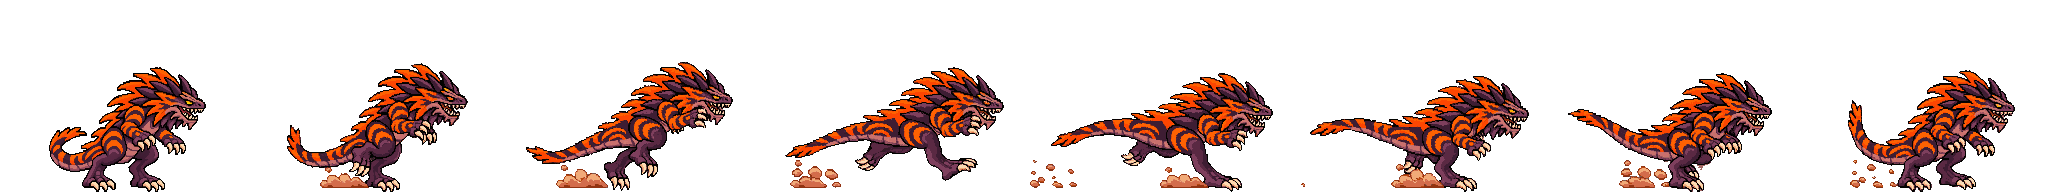
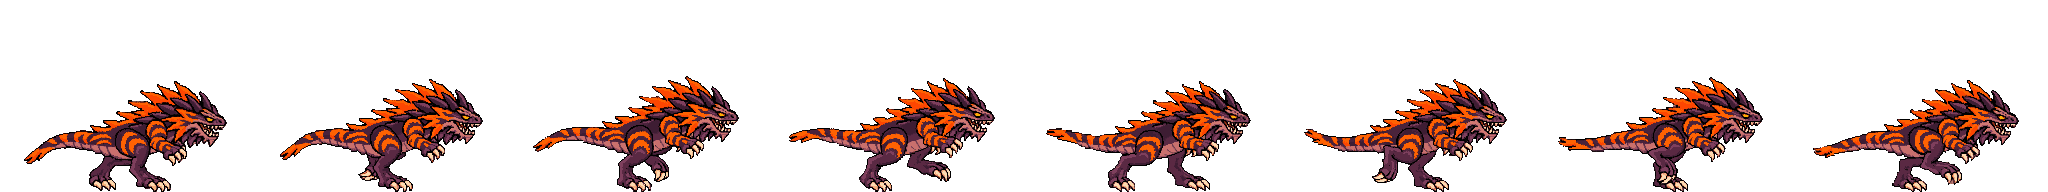
Redo Tlézcatl Stage 2 run as a theropod run
The old loop closed on the upright base pose, so every cycle tipped into
the run and popped back upright, an uneven 27px torso swing that read as a
limp. The new loop is generated from and closed on a level mid-stride pose
from a T. rex-run generation: body horizontal, tail straight back, two
even strides with the same 5px dip on each footfall.

Claude-Session: https://claude.ai/code/session_01SJ9dCvQvS4UYpniCxp2KN3

Changed region(s): [[0.0, 0.3125, 1.0, 1.0]]

diff --git a/src/presentation.ts b/src/presentation.ts
@@ -99,8 +99,8 @@ const TLEZCATL_S2:Form={width:120,borrow:true,anims:{idle:{src:'assets/tlezcatl-
  carry:{src:'assets/tlezcatl-s2-carry.png',frames:4,fps:6,...TZ2_NATIVE,hold:[[120,72],[123,73],[127,75],[124,74]]},
  carryWalk:{src:'assets/tlezcatl-s2-carry-walk.png',frames:8,fps:10,...TZ2_NATIVE,hold:[[120,72],[120,70],[120,69],[120,70],[120,72],[120,71],[120,69],[120,70]]},
  throw:{src:'assets/tlezcatl-s2-throw.png',frames:8,fps:18,once:true,...TZ2_NATIVE},
- // Run (Shift / double-tap): a leaning biped sprint loop closed on the base, long strides with both feet off the street on frame 3,
- // tail straight out behind, dust off the feet.
+ // Run (Shift / double-tap): a theropod (T. rex) run loop closed on a level running pose rather than the upright base, so the body stays
+ // horizontal, head forward and tail straight back as a counterweight; two even strides per cycle with the same 5px dip on each footfall.
  run:{src:'assets/tlezcatl-s2-run.png',frames:8,fps:15,...TZ2_NATIVE},
  // Magma Dive (256x256, the padded base): dive tips forward into a vertical head-first plunge, claws reaching down and tail straight up
  // (frames 0,2,3,4 of a generation, bottom-aligned, held on the last); slamLand = frames 1-8 of a generation from that plunge to the

diff --git a/README.md b/README.md
@@ -68,7 +68,7 @@ Score is earned points minus actual HP damage penalty, including healed damage. 
 
 **Tlézcatl Stage 1 art (just started, the base form):** `tlezcatl-s1.png` is the low-slung volcanic salamander (dark purple hide, lava-orange stripes, flame-spine crest, yellow eye), keyed from the transparent render with `tools/key_render.py` (grid 11.165x10.725 px per art pixel) to a 128x59 sprite at x=64, feet on the bottom row of a 256x192 frame (`TZ1_NATIVE`: scale 128/256, anchor 128). `tlezcatl-s1-idle` (breathing loop, 8 fps) and `tlezcatl-s1-walk` (sprawling lizard crawl, 10 fps) are 8-frame PixelLab strips generated from the base with it as the last frame so they loop. PixelLab dulled the eye to orange, so `fix_eye.py --ref tlezcatl-s1.png --region 157,161,175,182 --radius 10` restores it (the default colour test also matches the orange spines, hence the tight box), then `fill_pinholes.py` and `remove_specks.py`; walk frame 2 was bottom-aligned (1px). `tlezcatl-s1-run` (Shift / double-tap, 15 fps) is an 8-frame bounding sprint generated from the base with it as the last frame (seed 0; seed 7 was only a stretched walk), body low and long with a lift on frame 4 and dust kicked back; eye restored with the same `fix_eye.py` call, then `fill_pinholes.py` and `remove_specks.py`. Width 120 like the others, which makes him about 55 units tall at Stage 1, lower than Kaiban, since he is built long and flat. The light combo (`TZ1_LEFT`: the base shifted 40px left to x=24, anchor 88, so the lunges stay in the frame; 8-frame strips at Stage 1's 24/21/20 fps, each ending on that shifted base): `tlezcatl-s1-light1` is a near-claw rake that reaches past the snout with an orange slash arc on frame 3 (seed 21; the default seed lifted the paw over the back and swept the arc behind him); `tlezcatl-s1-light2` is a snapping lunge bite, head and shoulders shooting forward low with the jaws gaping; `tlezcatl-s1-light3` is a scorpion tail whip, the tail curling up over the back and cracking down in front of the snout with a small spark on frame 4 (seed 7; the default seed's impact explosion was half his body length). Eyes restored with `fix_eye.py --ref` (the shifted base) `--region 157,161,135,142 --radius 14 --max-err 9000`; the bite's reared, gaping frames 1-4 fail the match, so their dulled orange eye blobs were recoloured to the base's yellow by row instead. Then `fill_pinholes.py` and `remove_specks.py` (MAX 12, the bite's spatter and the whip's trailing dust). The heavy (also `TZ1_LEFT`, Stage 1 timing) is cut from one 16-frame rear-and-slam generation from the shifted base, closed on it (seed 7; seed 0 flared the crest off the top of the frame): `tlezcatl-s1-heavy-rear` (frames 0-4: draws back and rears up onto the hind legs and tail, claws raised, 20 fps) and `tlezcatl-s1-heavy-slam` (frames 8-15: crashes chest and claws into the street in a lava burst, dust trails off, settles into the crouch, 16 fps; it starts on the crash, so the hit shows the moment K is released). `tlezcatl-s1-heavy-hold` is a 4-frame loop generated from the peak pose (seed 7) in which the crest glows and then bursts into real flame; played as frames 0,2,3,2 so it pulses instead of snapping back (10 fps). PixelLab dulled the eye again and the reared head defeats `fix_eye.py`'s matcher, so the orange eye blobs on rear 1-4, every hold frame and slam 3-6 were recoloured to the base's yellow by row (slam 7 matched the base normally). Then `fill_pinholes.py` and `remove_specks.py` (MAX 12; MAX 4 on the hold so the flame licks survive). Flame Jet strips (`TZ1_LEFT`): PixelLab painted fire into the wind-up even when told not to, so `tlezcatl-s1-jet-start` (5 frames, 22 fps) is frames 0 and 2 of an inhale-and-gape generation (seed 0, the inhale), two in-betweens from a 4-frame generation bridging its frame 2 to its fire-free last frame (seed 3, prompted without any fire words), and that last frame, the jaws-wide breath pose. `tlezcatl-s1-jet-aim` (5 frames, never played) is that pose aimed -20/0/10/22/35 degrees: frame 8 of a head-lowering sweep from it (the head barely dips; a steeper re-roll closed the jaws), the pose itself, and frames 1-3 of a head-raising sweep (seed 3); `mouth` points are the front of the red mouth interior per frame. `tlezcatl-s1-jet-end` (4 frames, 16 fps) is a generation from the breath pose to the shifted base (jaws snap shut, settles). Eyes recoloured by blob (small orange islands ringed by outline) on every frame, then `fill_pinholes.py` and `remove_specks.py` (MAX 12). The crouch (`TZ1_NATIVE`, the unshifted base; Stage 1 timing): `tlezcatl-s1-crouch-down` (5 frames, seed 0: splays the legs and presses belly and chin flat to the street with the crest laid back, 59px tall to 37px, about the 38-unit crouch hitbox, 22 fps), `tlezcatl-s1-crouch` (a 4-frame breathing loop lying flat, frames 1-4 of a generation from that pose with it as the end pose, since its last frame closes on the first, 6 fps) and `tlezcatl-s1-crouch-up` (crouch-down reversed). Eyes recoloured by blob (frame 1 also has a crest marking that passes the blob test, left alone), then `fill_pinholes.py` and `remove_specks.py` (MAX 12). The climb set (256x256, `TZ1_NATIVE`, generated from the base padded to 256 tall with the feet on the bottom row) clings like a gecko: body vertical, belly to the wall, head up, tail hanging, with the gripping claws on the wall line at frame x=154 (the 24-unit hitbox edge at this scale). PixelLab drew no wall for any of them. `tlezcatl-s1-climb-grab` is frames 0-3 and 8 of an 8-frame leap onto the wall (seed 7; seed 0 snapped straight from the crouch to the cling), every frame bottom-aligned with the claws easing 46px onto the wall line; `tlezcatl-s1-climb` (seed 7) is a hand-over-hand loop closed on the cling pose; `tlezcatl-s1-climb-punch` draws the upper claw back and slams it into the wall with a flash on impact frame 5 (seed 3; the first roll twisted round and struck away from the wall, so the prompt pins the strike to the right); `tlezcatl-s1-climb-mantle` hauls onto the roof, landing upright and dropping onto all fours, ending on the base pose, bottom-aligned with the shift starting 15px further back (the game's 0.3-body-width roof slide) and easing to 0. The cling, climb and punch frames are shifted 46px left and 75px down (tail tip on the bottom row). Eyes recoloured by blob; where no blob was found, from the neighbouring frames' head position and checked by eye (the punch's frames 5-6 needed a looser colour test for a darker orange). Then `fill_pinholes.py` and `remove_specks.py` (MAX 12; MAX 4 on the punch so its sparks survive). Frame counts, fps and impact match the other forms. Grab/carry/throw (`TZ1_NATIVE`, Stage 1 timing, all generated without any object): `tlezcatl-s1-grab` (9 frames, seed 7; seed 0 barely scooped) dips the snout and slides both front claws under the prop at the street, then rears up onto the hind legs and tail with both claws pressed overhead, head thrown back; `tlezcatl-s1-carry` (4-frame loop from the grab's last frame, closed on it) strains upright with the claws locked up; `tlezcatl-s1-carry-walk` (8-frame loop, closed the same way) waddles forward upright; `tlezcatl-s1-throw` (8 of 9 generated frames, the near-duplicate frame 1 dropped so the swing arcs land on frame 1 as the prop launches on the key press) whips both claws forward and down and drops back onto all fours, ending on the base pose. `hold` points: grab frames 0-3 keep the prop on the street in front of the claws, frame 4 lifts it at the front claws, then they sit midway between the two raised claws on the claw tips. Eyes recoloured by blob on grab 1-4 and throw 4-8 (the upright frames show no eye), carry, carry-walk and throw bottom-aligned (1-3px), then `fill_pinholes.py` and `remove_specks.py` (MAX 12; MAX 4 on the throw so the arcs survive). Stage 1 is the base form; Stage 2 has its own form (below) and Stage 3 still draws Stage 1. The Mexico City rival is still the geometric stand-in. `tlezcatl-s1-dive` (4 frames: frames 0-3 of a 9-frame generation, tipping nose-down from the base into a vertical head-first plunge, bottom-aligned, held on the last) and `tlezcatl-s1-slam-land` (frames 1-8 of a generation from that plunge on the street with the base as the last frame: the snout drives in with a lava burst both sides, belly-flop, push back up) are `TZ1_NATIVE`; pinholes filled.
 
-**Tlézcatl Stage 2 art (complete, registered as `stages[2]`):** `tlezcatl-s2.png` is the semi-upright form (reared onto bent hind legs, clawed arms held forward, curled tail, the flame crest swept up into a mane), keyed from the transparent render with `tools/key_render.py` (grid 7.990x7.975 px per art pixel) to a 157x125 sprite at x=49, feet on the bottom row of a 256x192 frame (`TZ2_NATIVE`: scale 157/256, anchor 127.5). `tlezcatl-s2-idle` (breathing loop, 8 fps; seed 7, prompted to keep the crest's size and shape since seed 0 grew it 15px and snapped back at the loop) and `tlezcatl-s2-walk` (stomping biped walk, the tail swinging out straight behind and curling back by the last frame, 10 fps) are 8-frame PixelLab strips generated from the base with it as the last frame so they loop. Eye restored with `fix_eye.py --ref tlezcatl-s2.png --region 97,108,182,196 --radius 10`, then `fill_pinholes.py` and `remove_specks.py` (MAX 12). Width 120 like the other Stage 2 forms (about 95 units tall). The light combo (`TZ2_LEFT`: the base shifted 40px left to x=9, anchor 87.5, so the reaching rakes and the lunge stay in the frame; 8-frame strips at the shared 24/21/20 fps, each ending on that shifted base): `tlezcatl-s2-light1` is an overhead claw rake, the near claw cocked up by the crest and raked down in front of the snout with a thin orange streak on frame 4 (seed 7; seed 0's slash arc wrapped round behind his back); `tlezcatl-s2-light2` is a reaching hook rake, the arm shooting out past the snout and hooking down with a crescent on frame 3 (seed 21; seed 0 threw an arc bigger than the frame and turned him to face the camera, seed 7 was close but read as a repeat of light1); `tlezcatl-s2-light3` is a lunging bite, head and shoulders driving forward low with the jaws gaping, the crest flaring yellow-white on the snap at frame 3 and shedding embers (seed 0). Eyes restored with `fix_eye.py --ref` (the shifted base) `--region 97,108,142,156 --radius 14 --max-err 9000`; the bite's lunging frames 1, 2, 5 and 6 fail the match, so their dulled orange eye blobs were recoloured to the base's yellows by hand-located box (frames 3-4 kept the yellow). Then `fill_pinholes.py` and `remove_specks.py` (MAX 12, which also clears most of the bite's embers); a 54px see-through hole in the bite's frame 2 belly, too thick for `fill_pinholes.py`, was filled from the surrounding pixels. The heavy (also `TZ2_LEFT`, shared heavy timing) is a two-claw overhead smash cut from one 16-frame rear-and-slam generation from the shifted base, closed on it (seed 7; seed 0 held the peak for eight frames and its impact was two thin flame jets): `tlezcatl-s2-heavy-rear` (frames 0-4: rises tall on the hind legs, both claws thrown overhead, 20 fps; the tail tip grazes the left edge by a few px) and `tlezcatl-s2-heavy-slam` (frames 6-10, 12, 14 and 15: crashes forward driving both claws into the street in a lava burst with rocks, dust rolling off as he settles, 16 fps; it starts on the crash, so the hit shows the moment K is released). Pound reuses the slam, as on Stage 1. `tlezcatl-s2-heavy-hold` is a 4-frame generation from the peak pose padded to 256x256 (feet on the bottom row; strips draw bottom-anchored, so the taller frame needs no anchor change) in which the whole crest bursts into flame (seed 7; at 192 tall the flame tips were cut off by the frame top), played as frames 1,2,3,2 so the flame stays lit and pulses (10 fps). Slam 0-4 kept the yellow eye and `fix_eye.py` matched slam 6-7; the eye blobs on rear 1-4, every hold frame and slam 5 were recoloured to the base's yellows by hand-located box. Then `fill_pinholes.py` and `remove_specks.py` (MAX 12; MAX 4 on the hold so the flame licks survive). Flame Jet strips (`TZ2_LEFT`, all prompted without fire words): `tlezcatl-s2-jet-start` (5 frames, 22 fps) is frames 0, 2, 4, 6 and 7 of an 8-frame inhale-and-gape generation from the shifted base (seed 3; seed 0 left fire specks): the chest puffs up, the head rears back, then he drops forward with the jaws thrown wide, ending on the breath pose. `tlezcatl-s2-jet-aim` (6 frames, never played) is that pose aimed: frame 1 of a chin-tuck generation (seed 7; the plain head-lowering sweep only dropped the head 15px without tilting it, and every later frame closes the jaws), the breath pose, and frames 1-4 of a head-raising sweep (seed 3). Their `angles` (-21/0/10/21/29/34) are measured, not prompted: the breath head patch rotated and shifted for the best match in each frame. `mouth` is the centre of the open jaws per frame (the transparent pixels bordering the mouth's dark interior; the tipped-down frame read by eye). `tlezcatl-s2-jet-end` (4 frames, 16 fps) is frames 1-4 of a generation from the breath pose to the shifted base (jaws snap shut, settles). PixelLab dulled the eye on most frames and the gaping heads defeat `fix_eye.py` (it matched only jet-end 1-3). The breath pose's eye blob (rows 106-108, x171-175) was recoloured by hand; the other open-jaw frames then had the eye mapped from it through the same rotation match and recoloured there, the two reared wind-up frames through a match against the base, and the tipped-down aim frame by hand. Then `fill_pinholes.py` and `remove_specks.py` (MAX 12). The crouch (`TZ2_NATIVE`, the unshifted base; shared crouch timing): `tlezcatl-s2-crouch-down` (5 frames, seed 7; seed 0 shed stray embers) drops off the hind legs onto all fours, belly and chin low with the crest laid back and the tail stretched out flat, 125px tall to 78px (0.62 of standing, as on Stage 1), 22 fps; `tlezcatl-s2-crouch` is a 4-frame breathing loop lying low, generated from that pose with it as the end pose (seed 0, a 2px rise; seed 7 wrapped as evenly but moved less), 6 fps; `tlezcatl-s2-crouch-up` is crouch-down reversed. `fix_eye.py` matched no frame past the first, so the eye was restored by rotation-matching the base's head patch (eye included) into each frame and recolouring the dulled blob where the base eye lands; then `fill_pinholes.py` and `remove_specks.py` (MAX 12). The jump (`TZ2_NATIVE`, the unshifted base; shared jump timing): `tlezcatl-s2-jump-rise` (9 frames, seed 0; seed 7 held the crouch then snapped airborne trailing embers) sinks deep on the hind legs with the tail coiled and springs straight up, legs tucked and tail streaming down, 24 fps; `tlezcatl-s2-jump-air` is frames 0,1,2,1 of a 4-frame loop generated from the rise's last frame with it as the end pose (seed 0), the tail swaying out behind and back, 8 fps. The swinging tail is the lowest point, so plain bottom-alignment bounced the body 19px; every air frame is instead shifted down the same 30px as the rise's last frame. `tlezcatl-s2-jump-land` (5 frames from that airborne pose to the base, seed 0) reaches the hind legs down, squashes low in a dust puff with the tail flung up and straightens onto the base, 20 fps. Rise and land bottom-aligned with `bottom_align.py`. `fix_eye.py` matched only the first rise frames, so the eye was restored by rotation-matching the base head into each frame (as for the crouch); then `fill_pinholes.py` and `remove_specks.py` (MAX 12). The climb set (256x256, `TZ2_NATIVE`, generated from the base padded to 256 tall with the feet on the bottom row) clings gecko-style: body upright against the wall, belly to it, head up, tail hanging, with the gripping claws on the wall line at frame x=159 (the 24-unit hitbox edge at this scale). `tlezcatl-s2-climb-grab` is frames 0-3 and 8 of an 8-frame leap onto the wall (seed 7; seed 0 painted a dark wall strip down the right side), frames 0-3 bottom-aligned and the claws easing 75px onto the wall line; `tlezcatl-s2-climb` (seed 7) is a hand-over-hand loop closed on the cling pose; `tlezcatl-s2-climb-punch` (seed 0, whose starburst lands on impact frame 5; seed 7's lands on frame 4) draws the upper claw back off the wall and slams it in with a long speed streak and a starburst, the streak's tail dithered out over the frame's left 40px so it doesn't end in a hard edge; `tlezcatl-s2-climb-mantle` (seed 0) hauls over onto the roof and closes on the base. The cling, climb and punch frames are shifted 75px left and 17px down (as far as the lowest climb step and the punch's wind-up allow); the grab's last frame and the mantle's first sit at that height, and the mantle starts 19px further back (the game's 0.3-body-width roof slide), easing to 0 and to bottom-aligned by its last frame. PixelLab painted a roof ledge on mantle frames 1-7 (a dark slab with a 1px post) and dark wall scraps by the feet on climb frames 2-7 and the punch. The slab was erased as long horizontal runs of its brown/black (hide browns have more blue), the posts and leftover 1px lines by a 3x3 opening, the stubs and the slab under the feet on frames 6-7 by hand; the wall scraps as solid near-black blobs below the arm (the dark open throat above it is part of the design), with a 1px outline redrawn on the exposed edge. Eyes recoloured by blob (small orange islands ringed by outline); on the punch's head-turned frames 1-3 the blob test picked a crest marking, so the eye there was picked by position; frames 5-6 hide the head behind the flash. Then `fill_pinholes.py` and `remove_specks.py` (MAX 12; MAX 4 on the punch so its sparks survive). Frame counts, fps and impact match the other forms. Grab/carry/throw (256x256, the base padded to 256 tall with the feet on the bottom row so `TZ2_NATIVE` still lines up, since the overhead lift reaches the top of the frame; all generated without any object): `tlezcatl-s2-grab` (9 frames, 22 fps, seed 3; seeds 0 and 7 crouched for five or six frames and snapped upright) dips and slides both claws under the prop, then heaves it up past the knees, chest and face and locks both arms straight up overhead, head tipped back; `tlezcatl-s2-carry` (4-frame loop from the grab's last frame, closed on it, seed 0) strains upright with the arms locked up; `tlezcatl-s2-carry-walk` (8-frame loop closed the same way, seed 0) stomps forward on the hind legs; `tlezcatl-s2-throw` (8 of 9 generated frames, seed 7, the near-duplicate frame 1 dropped so the swoosh arcs land on frame 1 as the prop launches on the key press) whips both arms forward and down and settles onto the base. `hold` points: grab frames 0-3 keep the prop on the street in front of the front claw, 4-7 follow the hands as they rise (the centroid-top of the frontmost claw cluster), then they sit on the claw tips (the mean x of the top three rows). Eyes recoloured by blob; in the overhead pose the blob test picked a marking beside the arm, so the eye there (and on grab frames 6-7) was picked by position. Then `fill_pinholes.py` and `remove_specks.py` (MAX 12; MAX 4 on the throw so the arcs survive). `tlezcatl-s2-run` (Shift / double-tap, 8 frames at 15 fps, seed 0) is a leaning biped sprint generated from the base with it as the last frame: long strides with both feet off the street on frame 3, tail straight out, dust off the feet; its lift is left in (not bottom-aligned). Magma Dive (256x256, the padded base): `tlezcatl-s2-dive` (4 frames: 0, 2, 3 and 4 of an 8-frame generation, seed 0, tipping forward into a vertical head-first plunge, claws down and tail straight up, bottom-aligned, held on the last) and `tlezcatl-s2-slam-land` (frames 1-8 of a generation from that plunge with the base as the end pose, seed 0: snout and claws smash into the street with a lava splash both ways, belly-flop, push back up; `remove_specks.py` skipped so the lava droplets survive). Eruption (256x256, the padded base, Stage 1 timing): `tlezcatl-s2-ult-charge` (frames 1-16 of a 16-frame generation, seed 7) curls into a ball with the crest spines flaring into a spiked corona that heats from orange to yellow-white; `tlezcatl-s2-ult-roar` (frames 1-8 of a generation from the last charge frame, seed 0; seed 7 shrank the ball first and only burst on frame 4) bursts white on its first frame, the instant the blast fires, through a fire ring to him reared up, arms flung wide, jaws open, crest blazing and stripes white-hot; `tlezcatl-s2-ult-pound` is the roar's last four frames as a loop; `tlezcatl-s2-ult-settle` (frames 1-8 of a generation from the last roar frame to the base, seed 0; seed 7 dropped in one frame) lowers onto the base as the flames die into embers and the stripes cool back to orange (`remove_specks.py` skipped for the embers). The reared pose came out 13px off the bottom row, so the charge from the curl on, the roar, the loop and the settle's first two frames are shifted 13px down to keep his feet on the street through the whole Ultimate (the curl's first three frames are bottom-aligned). Eyes recoloured by blob, and by rotation-matching the base head where the blob test picked a stripe (run 5 by position); the glowing Ultimate frames keep PixelLab's own yellow. Then `fill_pinholes.py` and `remove_specks.py` (MAX 12; MAX 4 on the run for the dust). With that the Stage 2 set is complete. The form keeps `borrow` as a safety net: a strip added to Stage 1 later plays on Stage 2 until it gets its own.
+**Tlézcatl Stage 2 art (complete, registered as `stages[2]`):** `tlezcatl-s2.png` is the semi-upright form (reared onto bent hind legs, clawed arms held forward, curled tail, the flame crest swept up into a mane), keyed from the transparent render with `tools/key_render.py` (grid 7.990x7.975 px per art pixel) to a 157x125 sprite at x=49, feet on the bottom row of a 256x192 frame (`TZ2_NATIVE`: scale 157/256, anchor 127.5). `tlezcatl-s2-idle` (breathing loop, 8 fps; seed 7, prompted to keep the crest's size and shape since seed 0 grew it 15px and snapped back at the loop) and `tlezcatl-s2-walk` (stomping biped walk, the tail swinging out straight behind and curling back by the last frame, 10 fps) are 8-frame PixelLab strips generated from the base with it as the last frame so they loop. Eye restored with `fix_eye.py --ref tlezcatl-s2.png --region 97,108,182,196 --radius 10`, then `fill_pinholes.py` and `remove_specks.py` (MAX 12). Width 120 like the other Stage 2 forms (about 95 units tall). The light combo (`TZ2_LEFT`: the base shifted 40px left to x=9, anchor 87.5, so the reaching rakes and the lunge stay in the frame; 8-frame strips at the shared 24/21/20 fps, each ending on that shifted base): `tlezcatl-s2-light1` is an overhead claw rake, the near claw cocked up by the crest and raked down in front of the snout with a thin orange streak on frame 4 (seed 7; seed 0's slash arc wrapped round behind his back); `tlezcatl-s2-light2` is a reaching hook rake, the arm shooting out past the snout and hooking down with a crescent on frame 3 (seed 21; seed 0 threw an arc bigger than the frame and turned him to face the camera, seed 7 was close but read as a repeat of light1); `tlezcatl-s2-light3` is a lunging bite, head and shoulders driving forward low with the jaws gaping, the crest flaring yellow-white on the snap at frame 3 and shedding embers (seed 0). Eyes restored with `fix_eye.py --ref` (the shifted base) `--region 97,108,142,156 --radius 14 --max-err 9000`; the bite's lunging frames 1, 2, 5 and 6 fail the match, so their dulled orange eye blobs were recoloured to the base's yellows by hand-located box (frames 3-4 kept the yellow). Then `fill_pinholes.py` and `remove_specks.py` (MAX 12, which also clears most of the bite's embers); a 54px see-through hole in the bite's frame 2 belly, too thick for `fill_pinholes.py`, was filled from the surrounding pixels. The heavy (also `TZ2_LEFT`, shared heavy timing) is a two-claw overhead smash cut from one 16-frame rear-and-slam generation from the shifted base, closed on it (seed 7; seed 0 held the peak for eight frames and its impact was two thin flame jets): `tlezcatl-s2-heavy-rear` (frames 0-4: rises tall on the hind legs, both claws thrown overhead, 20 fps; the tail tip grazes the left edge by a few px) and `tlezcatl-s2-heavy-slam` (frames 6-10, 12, 14 and 15: crashes forward driving both claws into the street in a lava burst with rocks, dust rolling off as he settles, 16 fps; it starts on the crash, so the hit shows the moment K is released). Pound reuses the slam, as on Stage 1. `tlezcatl-s2-heavy-hold` is a 4-frame generation from the peak pose padded to 256x256 (feet on the bottom row; strips draw bottom-anchored, so the taller frame needs no anchor change) in which the whole crest bursts into flame (seed 7; at 192 tall the flame tips were cut off by the frame top), played as frames 1,2,3,2 so the flame stays lit and pulses (10 fps). Slam 0-4 kept the yellow eye and `fix_eye.py` matched slam 6-7; the eye blobs on rear 1-4, every hold frame and slam 5 were recoloured to the base's yellows by hand-located box. Then `fill_pinholes.py` and `remove_specks.py` (MAX 12; MAX 4 on the hold so the flame licks survive). Flame Jet strips (`TZ2_LEFT`, all prompted without fire words): `tlezcatl-s2-jet-start` (5 frames, 22 fps) is frames 0, 2, 4, 6 and 7 of an 8-frame inhale-and-gape generation from the shifted base (seed 3; seed 0 left fire specks): the chest puffs up, the head rears back, then he drops forward with the jaws thrown wide, ending on the breath pose. `tlezcatl-s2-jet-aim` (6 frames, never played) is that pose aimed: frame 1 of a chin-tuck generation (seed 7; the plain head-lowering sweep only dropped the head 15px without tilting it, and every later frame closes the jaws), the breath pose, and frames 1-4 of a head-raising sweep (seed 3). Their `angles` (-21/0/10/21/29/34) are measured, not prompted: the breath head patch rotated and shifted for the best match in each frame. `mouth` is the centre of the open jaws per frame (the transparent pixels bordering the mouth's dark interior; the tipped-down frame read by eye). `tlezcatl-s2-jet-end` (4 frames, 16 fps) is frames 1-4 of a generation from the breath pose to the shifted base (jaws snap shut, settles). PixelLab dulled the eye on most frames and the gaping heads defeat `fix_eye.py` (it matched only jet-end 1-3). The breath pose's eye blob (rows 106-108, x171-175) was recoloured by hand; the other open-jaw frames then had the eye mapped from it through the same rotation match and recoloured there, the two reared wind-up frames through a match against the base, and the tipped-down aim frame by hand. Then `fill_pinholes.py` and `remove_specks.py` (MAX 12). The crouch (`TZ2_NATIVE`, the unshifted base; shared crouch timing): `tlezcatl-s2-crouch-down` (5 frames, seed 7; seed 0 shed stray embers) drops off the hind legs onto all fours, belly and chin low with the crest laid back and the tail stretched out flat, 125px tall to 78px (0.62 of standing, as on Stage 1), 22 fps; `tlezcatl-s2-crouch` is a 4-frame breathing loop lying low, generated from that pose with it as the end pose (seed 0, a 2px rise; seed 7 wrapped as evenly but moved less), 6 fps; `tlezcatl-s2-crouch-up` is crouch-down reversed. `fix_eye.py` matched no frame past the first, so the eye was restored by rotation-matching the base's head patch (eye included) into each frame and recolouring the dulled blob where the base eye lands; then `fill_pinholes.py` and `remove_specks.py` (MAX 12). The jump (`TZ2_NATIVE`, the unshifted base; shared jump timing): `tlezcatl-s2-jump-rise` (9 frames, seed 0; seed 7 held the crouch then snapped airborne trailing embers) sinks deep on the hind legs with the tail coiled and springs straight up, legs tucked and tail streaming down, 24 fps; `tlezcatl-s2-jump-air` is frames 0,1,2,1 of a 4-frame loop generated from the rise's last frame with it as the end pose (seed 0), the tail swaying out behind and back, 8 fps. The swinging tail is the lowest point, so plain bottom-alignment bounced the body 19px; every air frame is instead shifted down the same 30px as the rise's last frame. `tlezcatl-s2-jump-land` (5 frames from that airborne pose to the base, seed 0) reaches the hind legs down, squashes low in a dust puff with the tail flung up and straightens onto the base, 20 fps. Rise and land bottom-aligned with `bottom_align.py`. `fix_eye.py` matched only the first rise frames, so the eye was restored by rotation-matching the base head into each frame (as for the crouch); then `fill_pinholes.py` and `remove_specks.py` (MAX 12). The climb set (256x256, `TZ2_NATIVE`, generated from the base padded to 256 tall with the feet on the bottom row) clings gecko-style: body upright against the wall, belly to it, head up, tail hanging, with the gripping claws on the wall line at frame x=159 (the 24-unit hitbox edge at this scale). `tlezcatl-s2-climb-grab` is frames 0-3 and 8 of an 8-frame leap onto the wall (seed 7; seed 0 painted a dark wall strip down the right side), frames 0-3 bottom-aligned and the claws easing 75px onto the wall line; `tlezcatl-s2-climb` (seed 7) is a hand-over-hand loop closed on the cling pose; `tlezcatl-s2-climb-punch` (seed 0, whose starburst lands on impact frame 5; seed 7's lands on frame 4) draws the upper claw back off the wall and slams it in with a long speed streak and a starburst, the streak's tail dithered out over the frame's left 40px so it doesn't end in a hard edge; `tlezcatl-s2-climb-mantle` (seed 0) hauls over onto the roof and closes on the base. The cling, climb and punch frames are shifted 75px left and 17px down (as far as the lowest climb step and the punch's wind-up allow); the grab's last frame and the mantle's first sit at that height, and the mantle starts 19px further back (the game's 0.3-body-width roof slide), easing to 0 and to bottom-aligned by its last frame. PixelLab painted a roof ledge on mantle frames 1-7 (a dark slab with a 1px post) and dark wall scraps by the feet on climb frames 2-7 and the punch. The slab was erased as long horizontal runs of its brown/black (hide browns have more blue), the posts and leftover 1px lines by a 3x3 opening, the stubs and the slab under the feet on frames 6-7 by hand; the wall scraps as solid near-black blobs below the arm (the dark open throat above it is part of the design), with a 1px outline redrawn on the exposed edge. Eyes recoloured by blob (small orange islands ringed by outline); on the punch's head-turned frames 1-3 the blob test picked a crest marking, so the eye there was picked by position; frames 5-6 hide the head behind the flash. Then `fill_pinholes.py` and `remove_specks.py` (MAX 12; MAX 4 on the punch so its sparks survive). Frame counts, fps and impact match the other forms. Grab/carry/throw (256x256, the base padded to 256 tall with the feet on the bottom row so `TZ2_NATIVE` still lines up, since the overhead lift reaches the top of the frame; all generated without any object): `tlezcatl-s2-grab` (9 frames, 22 fps, seed 3; seeds 0 and 7 crouched for five or six frames and snapped upright) dips and slides both claws under the prop, then heaves it up past the knees, chest and face and locks both arms straight up overhead, head tipped back; `tlezcatl-s2-carry` (4-frame loop from the grab's last frame, closed on it, seed 0) strains upright with the arms locked up; `tlezcatl-s2-carry-walk` (8-frame loop closed the same way, seed 0) stomps forward on the hind legs; `tlezcatl-s2-throw` (8 of 9 generated frames, seed 7, the near-duplicate frame 1 dropped so the swoosh arcs land on frame 1 as the prop launches on the key press) whips both arms forward and down and settles onto the base. `hold` points: grab frames 0-3 keep the prop on the street in front of the front claw, 4-7 follow the hands as they rise (the centroid-top of the frontmost claw cluster), then they sit on the claw tips (the mean x of the top three rows). Eyes recoloured by blob; in the overhead pose the blob test picked a marking beside the arm, so the eye there (and on grab frames 6-7) was picked by position. Then `fill_pinholes.py` and `remove_specks.py` (MAX 12; MAX 4 on the throw so the arcs survive). `tlezcatl-s2-run` (Shift / double-tap, 8 frames at 15 fps) runs like a theropod: body level, head forward, tail straight back as a counterweight. A first version closed the loop on the upright base, so every cycle tipped forward into the run and popped back upright (a 27px uneven torso swing that read as a limp). This one is an 8-frame loop (seed 7) generated from, and closed on, a level mid-stride frame taken from a T. rex-run generation off the base (seed 3, frame 4), so it never straightens up: two even strides per cycle, the torso dipping the same 5px on each footfall and the planted foot sliding back about 33px on both steps. The second step's frames floated 1px and were bottom-aligned; the eye was recoloured by position on the frames where the blob test picked a brow marking; then `fill_pinholes.py` and `remove_specks.py` (MAX 12). Magma Dive (256x256, the padded base): `tlezcatl-s2-dive` (4 frames: 0, 2, 3 and 4 of an 8-frame generation, seed 0, tipping forward into a vertical head-first plunge, claws down and tail straight up, bottom-aligned, held on the last) and `tlezcatl-s2-slam-land` (frames 1-8 of a generation from that plunge with the base as the end pose, seed 0: snout and claws smash into the street with a lava splash both ways, belly-flop, push back up; `remove_specks.py` skipped so the lava droplets survive). Eruption (256x256, the padded base, Stage 1 timing): `tlezcatl-s2-ult-charge` (frames 1-16 of a 16-frame generation, seed 7) curls into a ball with the crest spines flaring into a spiked corona that heats from orange to yellow-white; `tlezcatl-s2-ult-roar` (frames 1-8 of a generation from the last charge frame, seed 0; seed 7 shrank the ball first and only burst on frame 4) bursts white on its first frame, the instant the blast fires, through a fire ring to him reared up, arms flung wide, jaws open, crest blazing and stripes white-hot; `tlezcatl-s2-ult-pound` is the roar's last four frames as a loop; `tlezcatl-s2-ult-settle` (frames 1-8 of a generation from the last roar frame to the base, seed 0; seed 7 dropped in one frame) lowers onto the base as the flames die into embers and the stripes cool back to orange (`remove_specks.py` skipped for the embers). The reared pose came out 13px off the bottom row, so the charge from the curl on, the roar, the loop and the settle's first two frames are shifted 13px down to keep his feet on the street through the whole Ultimate (the curl's first three frames are bottom-aligned). Eyes recoloured by blob, and by rotation-matching the base head where the blob test picked a stripe (run 5 by position); the glowing Ultimate frames keep PixelLab's own yellow. Then `fill_pinholes.py` and `remove_specks.py` (MAX 12; MAX 4 on the run for the dust). With that the Stage 2 set is complete. The form keeps `borrow` as a safety net: a strip added to Stage 1 later plays on Stage 2 until it gets its own.
 
 **Per-stage forms:** `SPRITES[name]` is the base form (for Mogurodon, the art above is its Stage 2 design, also used for Stage 3); `stages[n]` overrides it for one stage. Inside a stage form a missing strip falls back to that form's own `idle`, while gameplay timing (`animDuration`/`animImpact`) borrows the base strip's, so combat is unchanged until a form's strips are animated. Mogurodon Stage 1 (`assets/mogurodon-s1.png`) is the transparent render keyed with `tools/key_render.py` (grid 9.30x9.095 px per art pixel): a 151x113 native sprite at x=52, feet on the bottom row of a 256x192 frame. All 25 Stage 1 strips are generated from it with PixelLab and registered with `S1_NATIVE` (scale 151/256, anchor 127.5); frame counts, fps and impact frames match the previous art. The old padded bases (`mogurodon-s1-pad.png`, `mogurodon-s3-pad.png`) and `S1_PAD` are gone. Moves: idle and walk loops; light combo near (left) paw swipe, far (right) paw swipe (prompted with the near leg pinned so the far paw rises behind the head and slashes across) and lunge-bite; heavy rear/slam cut from one 16-frame generation (rear 0-4, slam 8-15) plus a hold loop from the peak; no tail, so the ranged shot arches the back like a hissing cat with the quills bristling (standing and crouched); crouch down/loop/up; jump rise, a 4-frame airborne gallop (frames 1-4 of its generation) and landing; Seismic Rupture howl (9 of 17 frames, 0,2,3,6,9,12,13,14,16, crash with the dust burst on impact frame 5) and a two-paw pound loop; climb with the gripping paws on the wall line at frame x=158 (PixelLab painted a thin brown post at x=215, erased with `post.py`-style column detection since the paws cut it into short pieces; the mantle starts 18px back and eases to 0); grab, carry and carry-walk with per-frame `hold` points (grab frame 7 holds at the forward paws mid-lift) and a throw generated without any object. Gold eye restored against the base plus crouch, heavy-peak and Ultimate-pose references; the reared carry pose tips the head back behind the arms, so carry frames have no eye. Add strips to `stages[1].anims`. Mogurodon Stage 3 (`assets/mogurodon-s3.png`) is the transparent render keyed with `tools/key_render.py`, which measures the render's real pixel grid (about 8.055x7.77 px per art pixel, offset) and keys by alpha, so the sprite keeps its outline and comes out at native resolution: 173x134 at x=41, feet on the bottom row of a 256x192 frame. Every Stage 3 strip is generated from it with PixelLab and registered with `S3_NATIVE` (scale 173/256, anchor 127.5) so it draws at the old width and foot position; frame counts, fps and impact frames match the previous art, so combat timing is unchanged. (The previous base was keyed from a black-background render by brightness on an assumed 8px grid, which ate the outline and joint creases and doubled pixels unevenly; every strip inherited the gaps.) Idle and walk are loops closed with the base as first and last frame. Light combo: near-arm (left) strike with a short pink streak, swipe with the other arm: the arm hanging against the chest winds back behind the body, arcs over and slashes forward past the snout with a pink arc while the leading arm stays put (generated with the base as the last frame so it settles back; earlier versions swung the leading arm again with a floating extra fist behind the head), low lunge-bite. Heavy: one 17-frame rear-and-slam generation cut into `heavy-rear` (frames 0-4) and `heavy-slam` (frames 8-14 and 16: crash with dust and crystal shards, settle), plus a 4-frame `heavy-hold` from the peak pose (re-rolled: a "trembling" prompt scattered dark specks). The reared peak touches the top of the 192px frame. Jump: rise, 4-frame air loop from its last frame and landing, bottom-aligned, landing debris stripped. Ranged: tail whips over the back; the detached shard PixelLab drew (it flew backwards) is erased since the game draws the projectile; the crouched shot flicks the tail while staying flat. Crouch: crouch-down, breathing loop from its last frame, crouch-up = crouch-down reversed. Climb (256x256): PixelLab paints a wall even when told not to; `tools/remove_wall.py` and a wall-line pass erase it, and the wall frames are shifted so the gripping claws sit on the wall line at frame x=162 (hitbox edge, 24 world units from the origin). The mantle starts a further 21px back (the game slides him 0.3 body widths onto the roof) and eases to 0 by its base-pose last frame. Ultimate: the roar is 8 of a 17-frame generation (frames 0,1,2,4,9,11,13,16) so the crash into the crystal eruption lands on impact frame 5; the 16-frame pound loop slams the near claw then the far claw with dust and sparks. Grab/carry/throw: the grab scoops then rears with both claws overhead (a rock PixelLab drew in frame 1 is erased); carry and carry-walk loop from its last frame and the throw ends on the base pose. Grab, carry and carry-walk have per-frame `hold` points measured on the fists. PixelLab washes the gold eye out after frame 0, so `tools/fix_eye.py` restores it against the base and, for frames it cannot match, against wide-search references for the crouch, carry and heavy-peak poses; `--max-err 9000` skips frames where the head is turned or hidden (grab scoop frames 2-5, the upright roar, the head-down pound loop). Every strip then gets `fill_pinholes.py` and `remove_specks.py`. Request PixelLab frame counts in multiples of 4 (the strip gets the input frame plus that many). Add further strips to `stages[3].anims`. `tools/prep_form_base.py` keys a black-background render and fits it into a frame for that.
 
